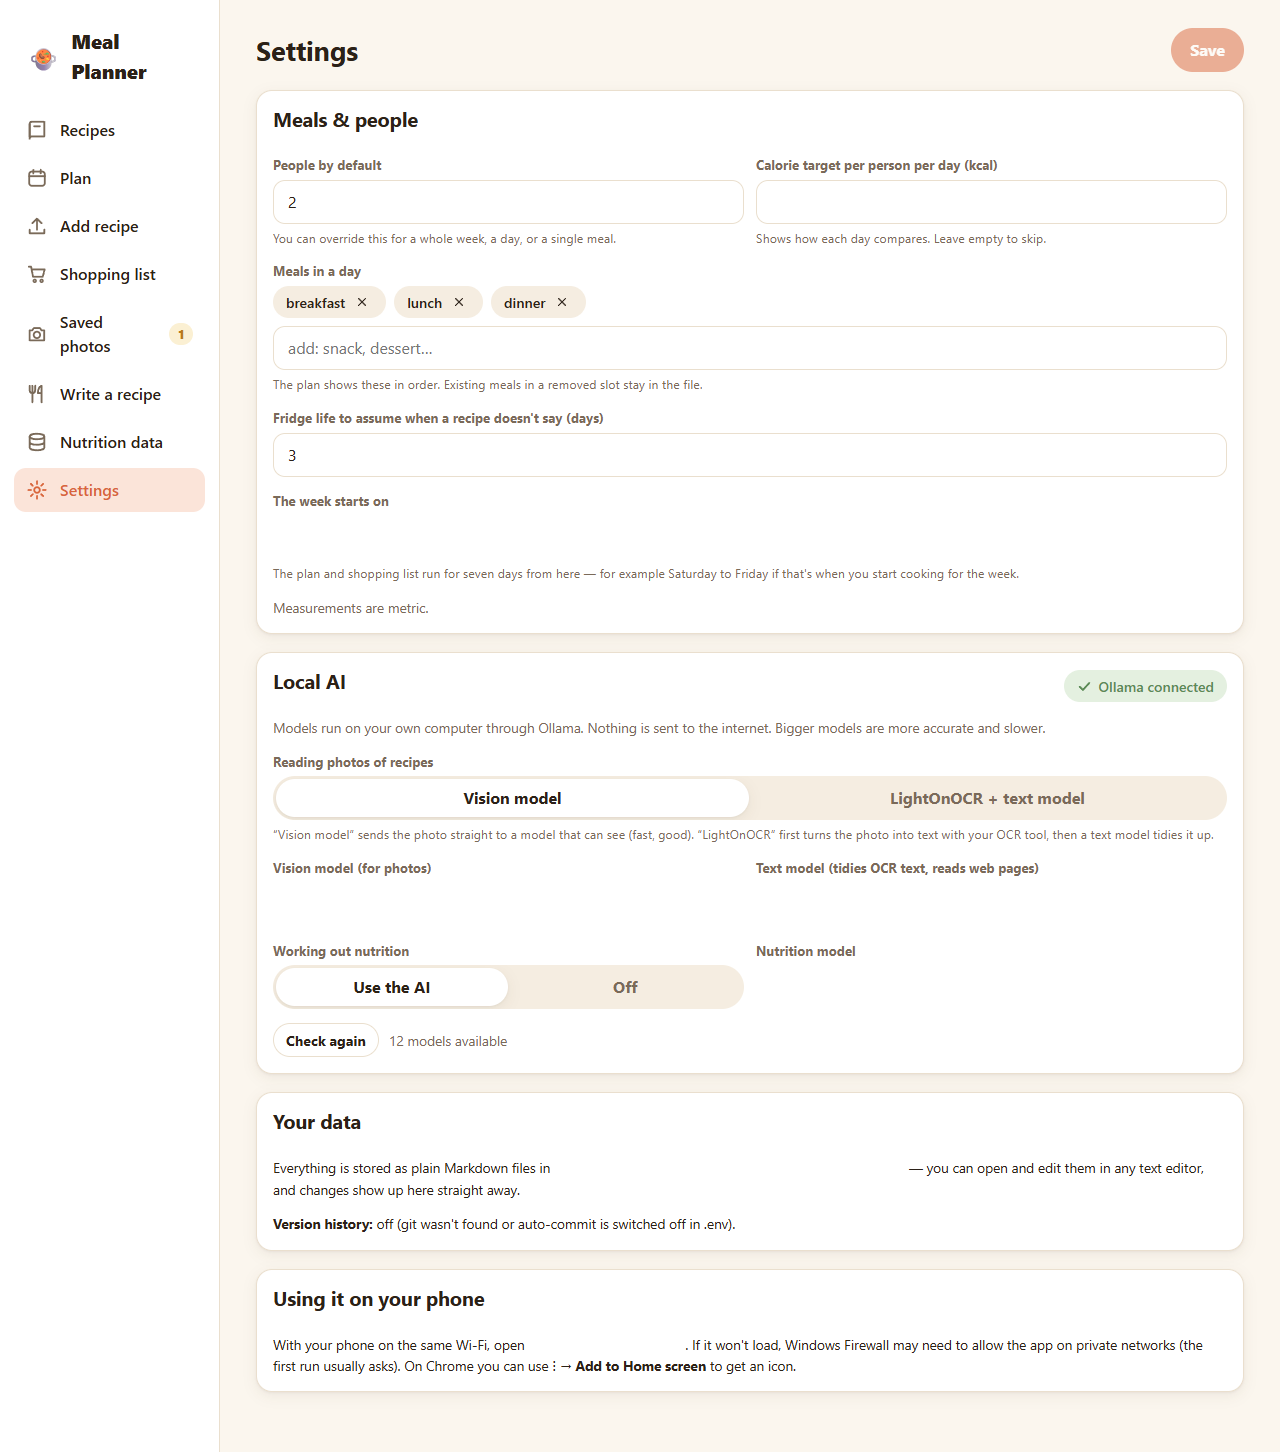
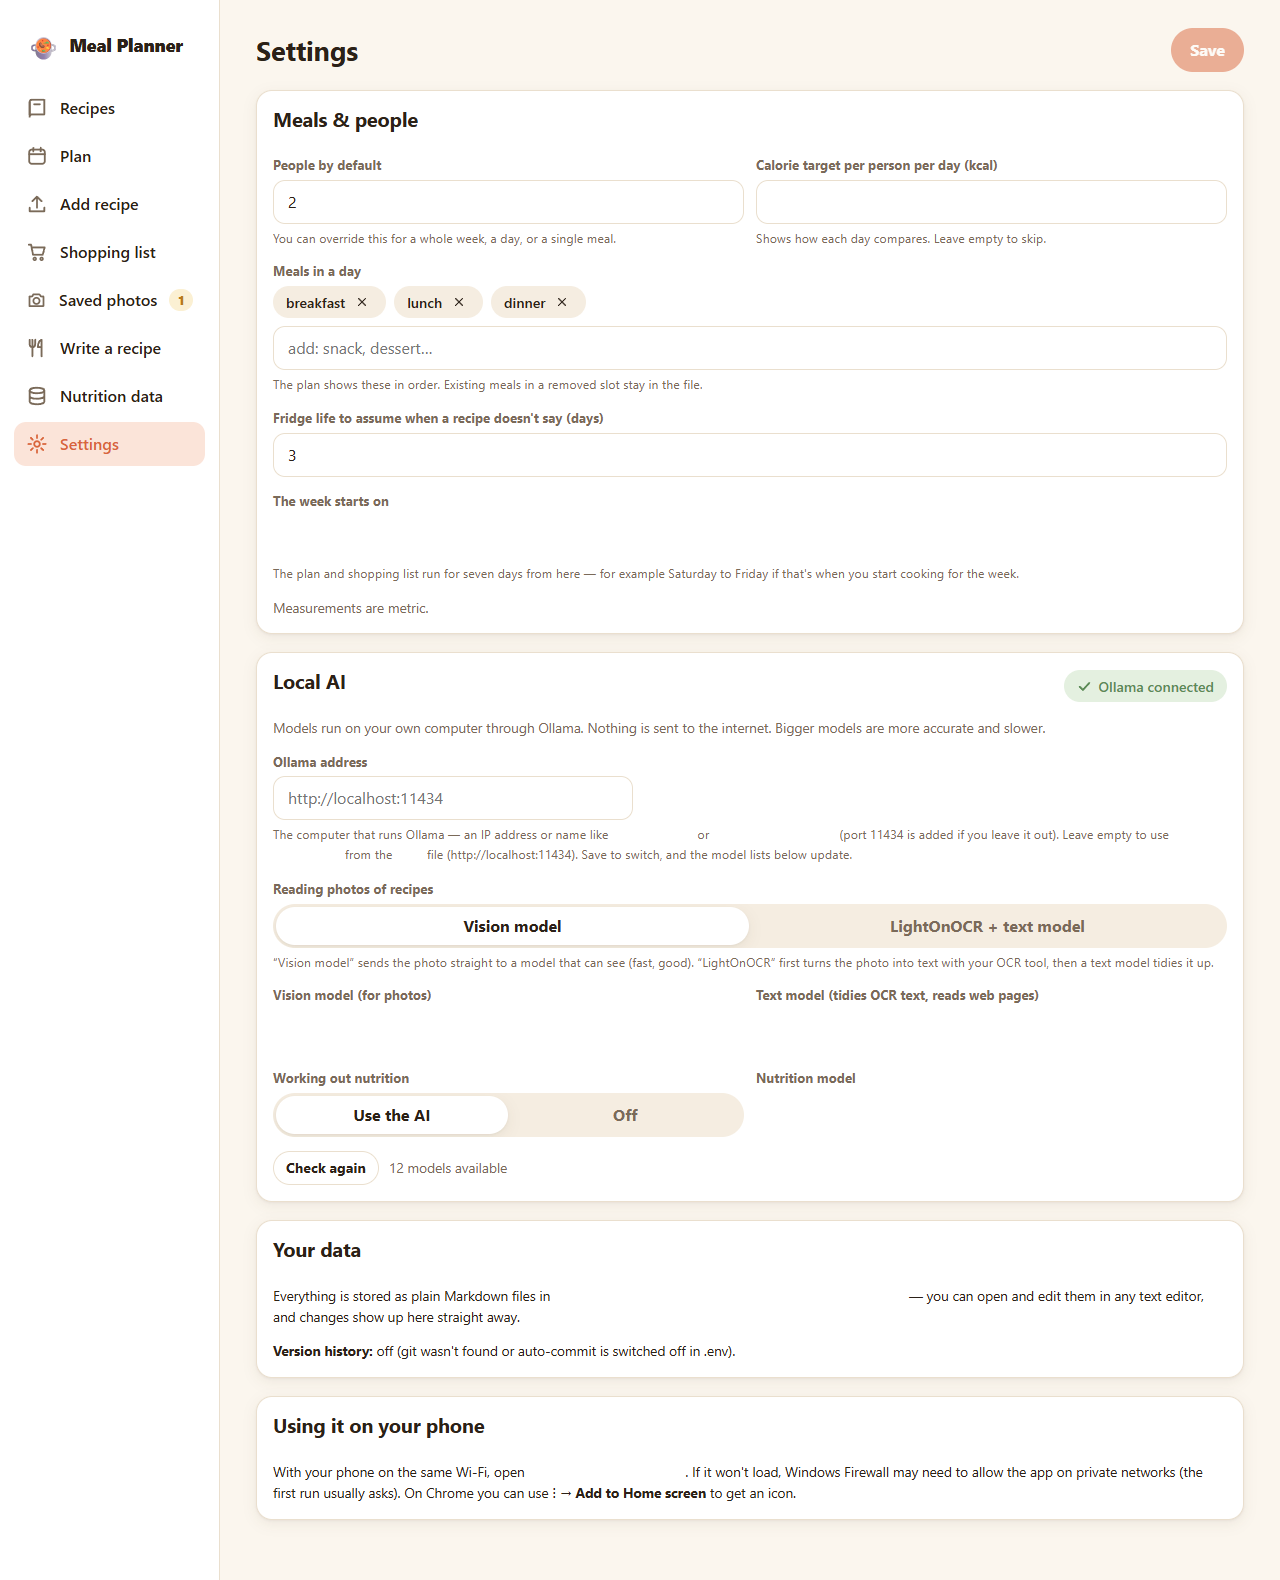
Make the Ollama address configurable on the Settings page
A new ollamaUrl setting (stored in settings.md) overrides OLLAMA_URL from
.env, which stays the fallback when the field is empty. A bare host such
as 192.168.0.66 is tidied to http://192.168.0.66:11434, and the client
reads the address on every request, so a change applies without a
restart. Useful when Ollama runs on a different computer from the app.

diff --git a/packages/web/src/pages/SettingsPage.tsx b/packages/web/src/pages/SettingsPage.tsx
@@ -112,13 +112,30 @@ export function SettingsPage() {
         {status && !status.ollama.ok && (
           <div className="notice bad">
             <div>
-              {status.ollama.error ?? "Can't reach Ollama."} Start it on your computer and press <b>Check again</b>. The address comes from <code>OLLAMA_URL</code> in the <code>.env</code> file ({status.ollama.url}).
+              {status.ollama.error ?? "Can't reach Ollama."} Check that Ollama is running on that computer (and accepts connections from the network), or fix the address below, then press <b>Check again</b>.
             </div>
           </div>
         )}
         <p className="small muted" style={{ margin: 0 }}>
           Models run on your own computer through Ollama. Nothing is sent to the internet. Bigger models are more accurate and slower.
         </p>
+        <div className="field">
+          <label htmlFor="ollama-url">Ollama address</label>
+          <input
+            id="ollama-url"
+            className="input"
+            style={{ maxWidth: 360 }}
+            value={s.ollamaUrl}
+            placeholder={status?.ollama.envUrl ?? "http://localhost:11434"}
+            spellCheck={false}
+            autoCapitalize="off"
+            onChange={(e) => setS({ ...s, ollamaUrl: e.target.value })}
+          />
+          <div className="hint">
+            The computer that runs Ollama — an IP address or name like <code>192.168.0.10</code> or <code>http://my-pc:11434</code> (port 11434 is added if you leave it out). Leave empty to use <code>OLLAMA_URL</code> from the <code>.env</code> file
+            {status ? ` (${status.ollama.envUrl})` : ""}. Save to switch, and the model lists below update.
+          </div>
+        </div>
         <div className="field">
           <label>Reading photos of recipes</label>
           <Seg

diff --git a/packages/core/src/schemas.ts b/packages/core/src/schemas.ts
@@ -235,8 +235,39 @@ export interface Recipe {
 
 // ---------- Settings ----------
 
+/**
+ * Tidy an Ollama address typed by a person: "192.168.0.66" → "http://192.168.0.66:11434".
+ * A bare host gets Ollama's default port; an empty string means "use OLLAMA_URL from .env". Returns null if it isn't a usable address.
+ */
+export function normalizeOllamaUrl(raw: string): string | null {
+  const v = raw.trim();
+  if (!v) return "";
+  const hasScheme = /^[a-z][a-z0-9+.-]*:\/\//i.test(v);
+  let url: URL;
+  try {
+    url = new URL(hasScheme ? v : `http://${v}`);
+  } catch {
+    return null;
+  }
+  if (!/^https?:$/.test(url.protocol) || !url.hostname) return null;
+  if (!hasScheme && !url.port) url.port = "11434";
+  return `${url.origin}${url.pathname}`.replace(/\/+$/, "");
+}
+
 export const SettingsSchema = z
   .object({
+    /** where Ollama runs, e.g. another computer on the network; empty = OLLAMA_URL from .env */
+    ollamaUrl: z
+      .string()
+      .transform((v, ctx) => {
+        const url = normalizeOllamaUrl(v);
+        if (url === null) {
+          ctx.addIssue({ code: "custom", message: `"${v}" isn't a valid address for Ollama (try something like 192.168.0.10 or http://my-pc:11434)` });
+          return z.NEVER;
+        }
+        return url;
+      })
+      .default(""),
     defaultPeople: z.number().default(2),
     weekStartsOn: z.enum(["monday", "tuesday", "wednesday", "thursday", "friday", "saturday", "sunday"]).default("monday"),
     mealSlots: z

diff --git a/packages/core/test/store.test.ts b/packages/core/test/store.test.ts
@@ -134,6 +134,19 @@ describe("settings, foods, plans", () => {
     const text = await fs.readFile(path.join(ctx.dir, "settings.md"), "utf8");
     expect(text).toContain("defaultPeople: 3");
   });
+  it("tidies the Ollama address and rejects bad ones", async () => {
+    expect(ctx.store.getSettings().ollamaUrl).toBe("");
+    await ctx.store.updateSettings({ ollamaUrl: " 192.168.0.66 " });
+    expect(ctx.store.getSettings().ollamaUrl).toBe("http://192.168.0.66:11434");
+    await ctx.store.updateSettings({ ollamaUrl: "http://my-pc:8080/" });
+    expect(ctx.store.getSettings().ollamaUrl).toBe("http://my-pc:8080");
+    await ctx.store.updateSettings({ ollamaUrl: "my-pc:9000" });
+    expect(ctx.store.getSettings().ollamaUrl).toBe("http://my-pc:9000");
+    await expect(ctx.store.updateSettings({ ollamaUrl: "ftp://nope" })).rejects.toThrow(/valid address/);
+    expect(ctx.store.getSettings().ollamaUrl).toBe("http://my-pc:9000");
+    await ctx.store.updateSettings({ ollamaUrl: "" });
+    expect(ctx.store.getSettings().ollamaUrl).toBe("");
+  });
   it("stores foods in a Markdown file", async () => {
     await ctx.store.upsertFoods([{ id: "flour", name: "flour", per100g: { calories: 364, proteinG: 10, carbsG: 76, fatG: 1, saturatedFatG: 0.2, fibreG: 3, sugarG: 0.3, sodiumMg: 2 }, source: "manual" }]);
     expect(ctx.store.listFoods()).toHaveLength(1);

diff --git a/packages/core/src/ollama.ts b/packages/core/src/ollama.ts
@@ -25,9 +25,14 @@ export interface ChatJsonOptions<T> {
   numCtx?: number;
 }
 
-/** Minimal client for a local Ollama server. Everything stays on this machine. */
+/** Minimal client for a local Ollama server. Everything stays on your own network. */
 export class OllamaClient {
-  constructor(private baseUrl: string) {}
+  /** A function is read on every request, so a changed address takes effect without a restart. */
+  constructor(private address: string | (() => string)) {}
+
+  get baseUrl(): string {
+    return typeof this.address === "function" ? this.address() : this.address;
+  }
 
   async status(): Promise<{ ok: boolean; error?: string; models: OllamaModelInfo[] }> {
     try {

diff --git a/packages/core/src/app.ts b/packages/core/src/app.ts
@@ -25,7 +25,8 @@ export async function createApp(overrides: Partial<AppConfig> = {}): Promise<App
   const store = new DataStore(cfg);
   store.on("warning", (m) => console.warn(`[data] ${m}`));
   await store.init();
-  const ollama = new OllamaClient(cfg.ollamaUrl);
+  // the address set on the Settings page wins over OLLAMA_URL in .env
+  const ollama = new OllamaClient(() => store.getSettings().ollamaUrl || cfg.ollamaUrl);
   const fetcher = new PoliteFetcher(cfg);
   const jobs = new JobManager();
   const importer = new Importer(store, ollama, fetcher, jobs);

diff --git a/packages/web/src/api.ts b/packages/web/src/api.ts
@@ -127,7 +127,7 @@ export interface Status {
   dataDir: string;
   recipes: number;
   problems: { slug: string; error: string }[];
-  ollama: { url: string; ok: boolean; error?: string; models: { name: string; sizeGb: number | null; vision: boolean }[] };
+  ollama: { url: string; envUrl: string; ok: boolean; error?: string; models: { name: string; sizeGb: number | null; vision: boolean }[] };
   lightOnOcr: boolean;
   git: { enabled: boolean; history: { hash: string; date: string; message: string }[] };
   today: string;

diff --git a/packages/server/src/routes-other.ts b/packages/server/src/routes-other.ts
@@ -209,7 +209,7 @@ export function registerOtherRoutes(server: FastifyInstance, app: App) {
       dataDir: store.dataDir,
       recipes: store.listRecipes().length,
       problems: store.getProblems(),
-      ollama: { url: app.cfg.ollamaUrl, ...ollama },
+      ollama: { url: app.ollama.baseUrl, envUrl: app.cfg.ollamaUrl, ...ollama },
       lightOnOcr: app.cfg.lightOnOcrDir ? fs.existsSync(path.join(app.cfg.lightOnOcrDir, "ocr.py")) : false,
       git: { enabled: store.git.ready, history },
       today: todayYmd(),

diff --git a/docs/MANUAL.md b/docs/MANUAL.md
@@ -275,7 +275,7 @@ Make-ahead food goes on the shopping list but isn't counted in that day's calori
 - **Meals in a day**: breakfast, lunch and dinner by default. You can add *snack* or *dessert*.
 - **Fridge life to assume when a recipe doesn't say** (days)
 - **The week starts on**: any day
-- **Local AI**: the status of the Ollama connection, and which model reads photos, which tidies text, and which works out nutrition. You can also use **LightOnOCR + a text model** instead of a vision model, or turn AI nutrition off.
+- **Local AI**: the status of the Ollama connection, the **Ollama address** (the computer Ollama runs on — type an IP address like `192.168.0.10` or a name; leave it empty to use the one from `.env`), and which model reads photos, which tidies text, and which works out nutrition. You can also use **LightOnOCR + a text model** instead of a vision model, or turn AI nutrition off.
 - **Your data**: where the files are, and whether version history is on.
 
 ## 12. Your data, history and backups
@@ -311,7 +311,7 @@ The README has the [setup steps](../README.md#use-it-from-claude-mcp) and the li
 | Problem | Fix |
 |---|---|
 | The phone can't open the address | It must be on the same Wi-Fi. Allow port 3456 through Windows Firewall (see the README). |
-| "Ollama not connected" in Settings | Start Ollama, then press **Check again**. |
+| "Ollama not connected" in Settings | Start Ollama, check the **Ollama address** points at the computer running it, then press **Check again**. |
 | Reading a photo is slow | Local models take 20–80 seconds per page. A smaller model in Settings is faster but less accurate. |
 | A photo won't upload | It's probably HEIC. Save or share it as JPEG instead. |
 | The leftovers you want aren't in the list | Check that the cook meal has extra **Portions to cook**, and that the day you picked is within its safe date. |

diff --git a/README.md b/README.md
@@ -156,7 +156,7 @@ claude mcp add meal-planner -- node "C:/Users/culli/code/Meal Planner/packages/m
 
 ## Settings via `.env`
 
-See `.env.example` for `DATA_DIR`, `PORT`, `HOST`, `OLLAMA_URL`, `LIGHTONOCR_DIR` and `GIT_AUTOCOMMIT`. Models are chosen on the app's Settings page.
+See `.env.example` for `DATA_DIR`, `PORT`, `HOST`, `OLLAMA_URL`, `LIGHTONOCR_DIR` and `GIT_AUTOCOMMIT`. Models are chosen on the app's Settings page. The Ollama address can also be set there (handy when Ollama runs on another computer); it overrides `OLLAMA_URL`, which stays the fallback when the field is empty.
 
 ## Development
 
